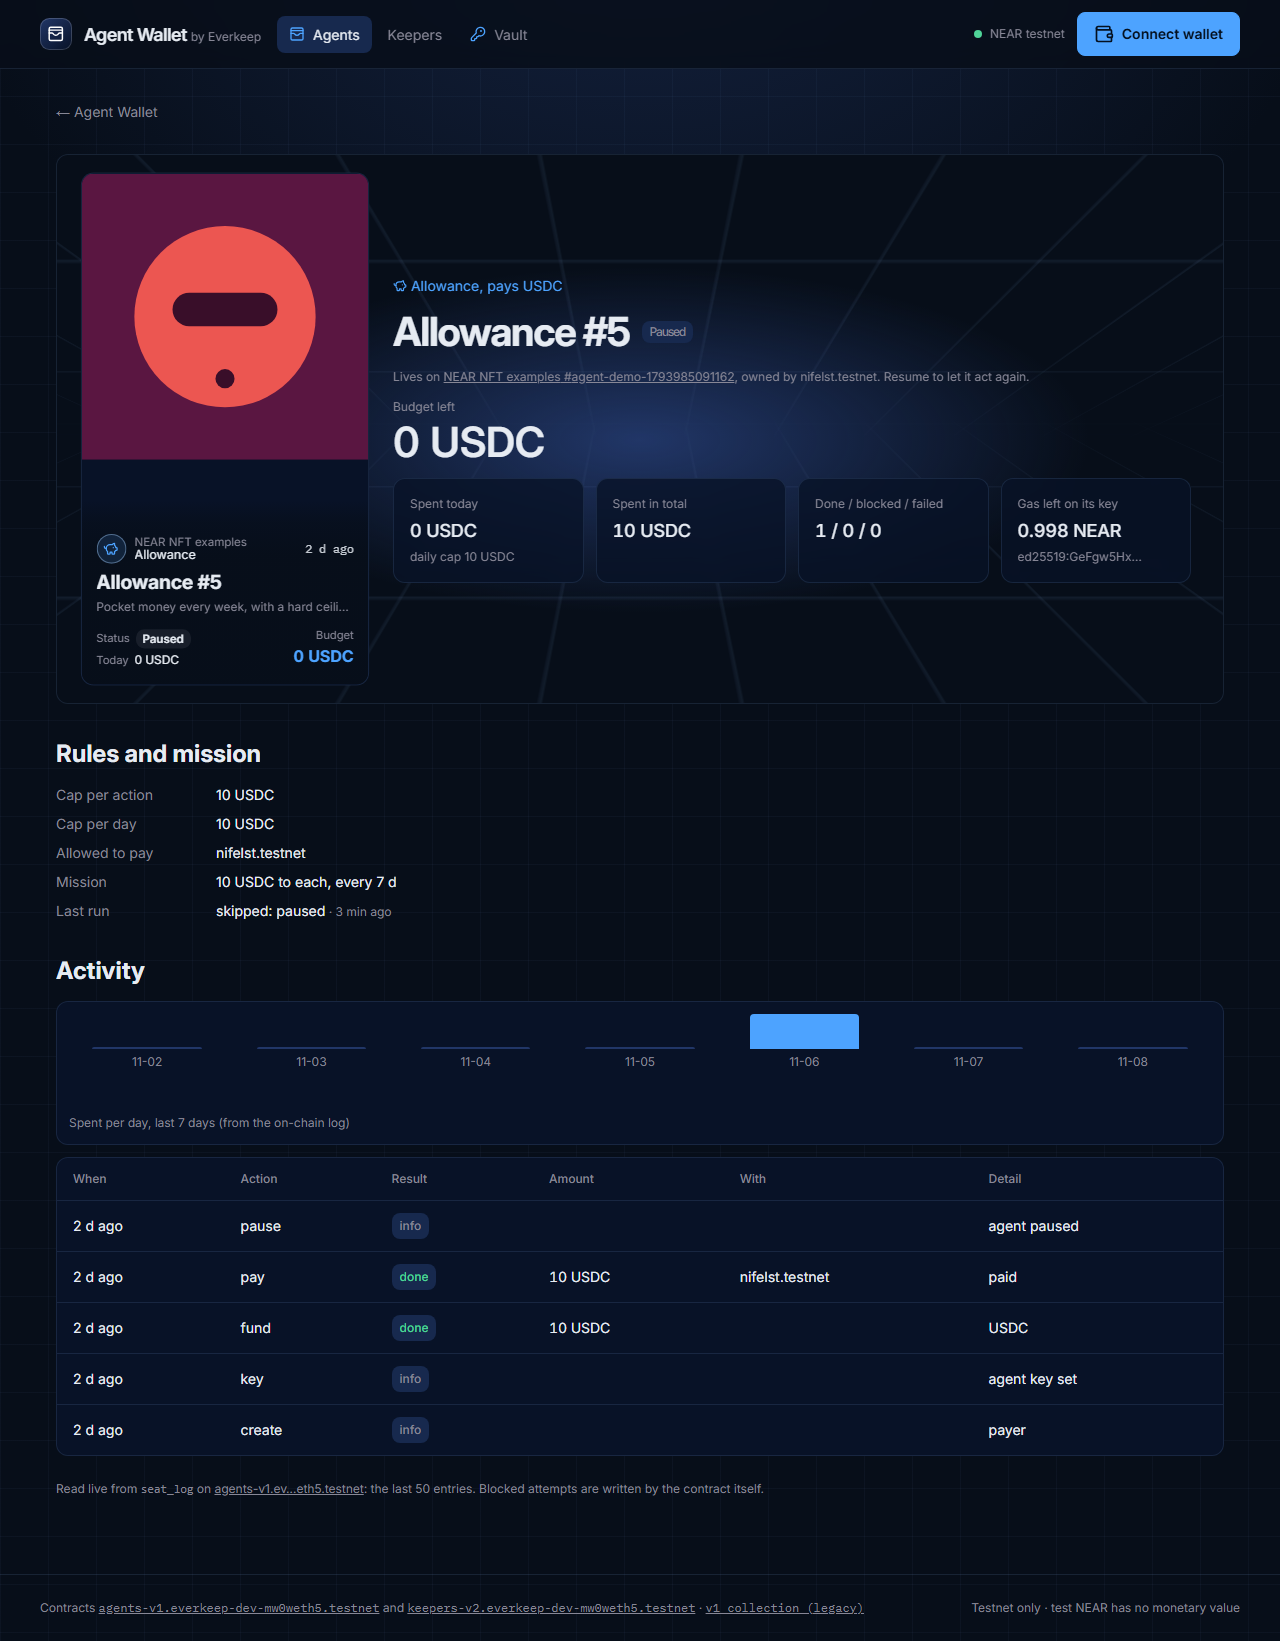
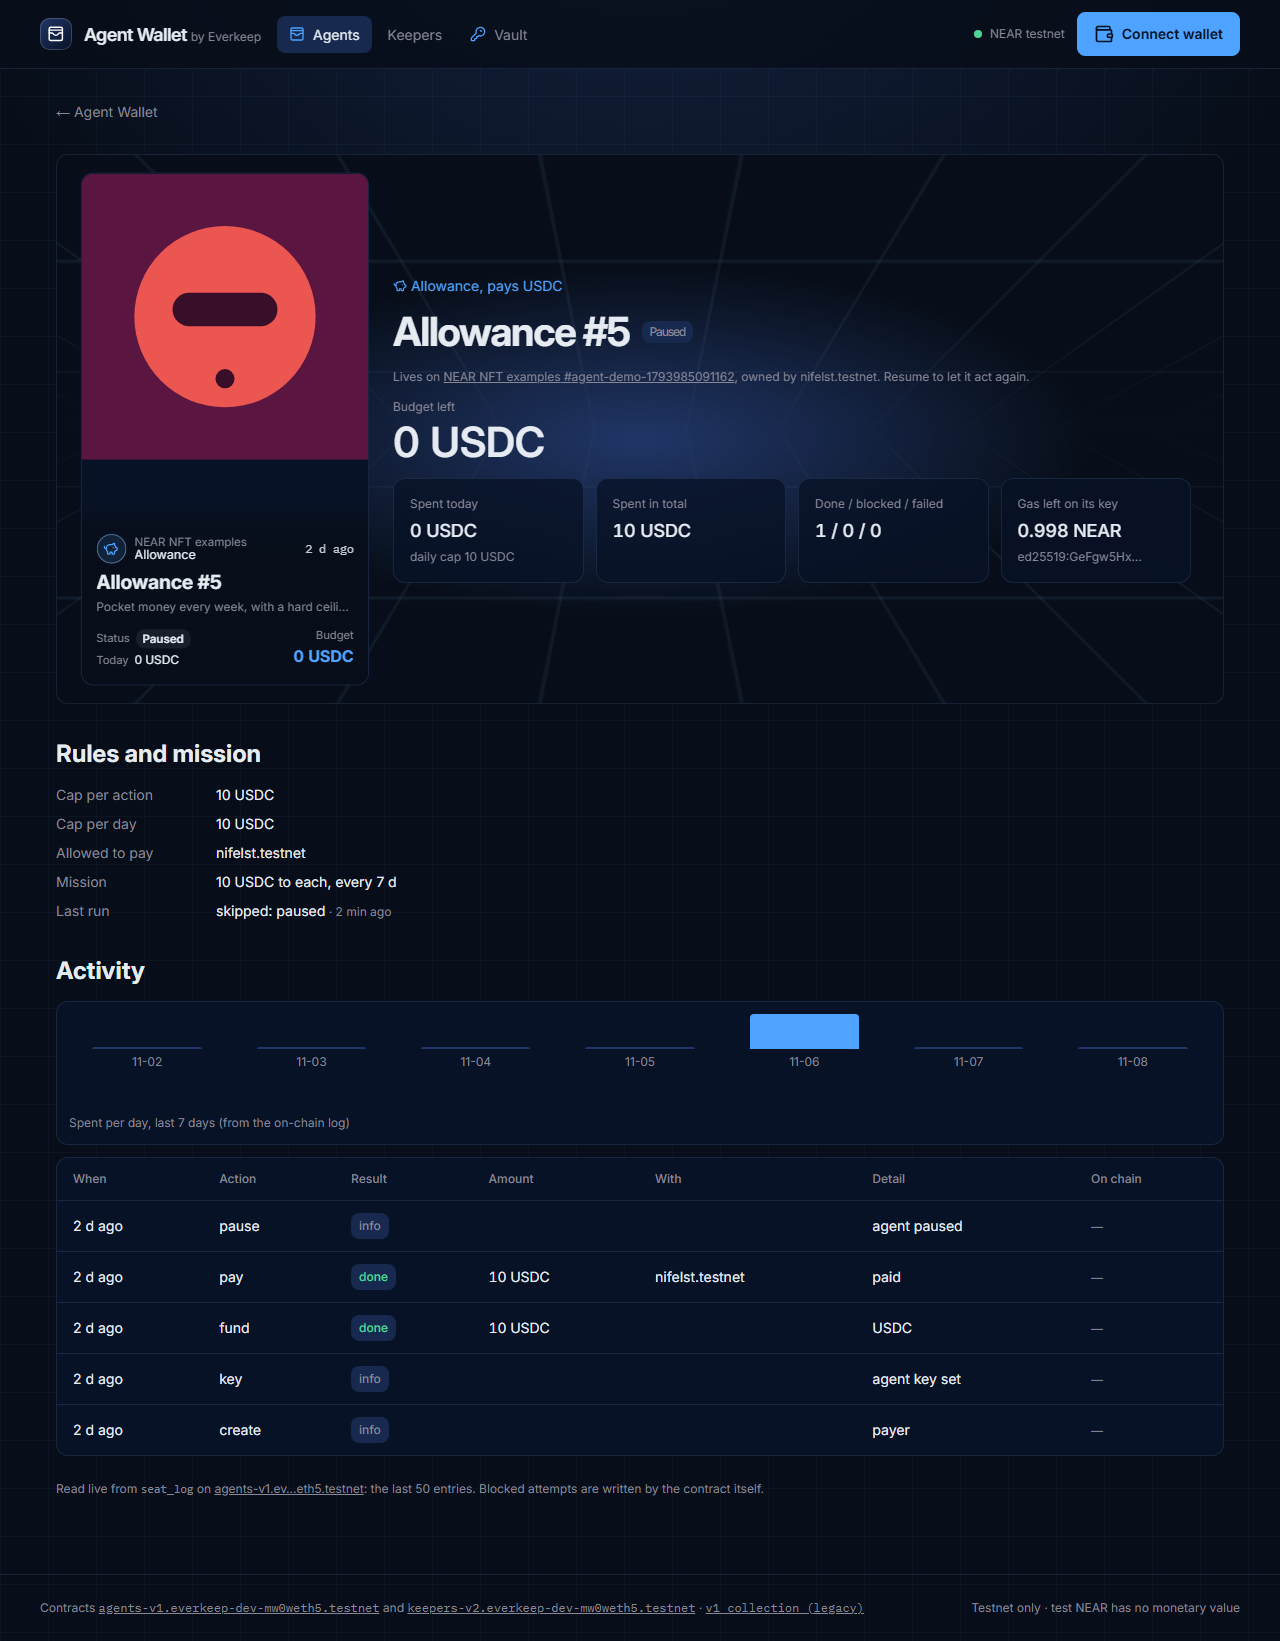
feat(agents): every activity line links to its transaction on the explorer
The contract logs actions, not their hash, so each log entry is matched to
the owner's transaction (NearBlocks v3, public, CORS open): same method
family, latest transaction at or before the entry, within a minute; USDC
top-ups are matched on the USDC contract (ft_transfer_call). The agent
page gets an "On chain" column and the wallet feed a "tx" link. Checked:
agent #10's 5 entries and 20 of 20 feed lines link to the right
transactions (e.g. the refused 5 USDC pay -> HjpKND..., the paid 1 USDC ->
2VJc2T...). Best effort: if the explorer is down, the page still works.

diff --git a/src/keepers/AgentsPage.tsx b/src/keepers/AgentsPage.tsx
@@ -545,6 +545,7 @@ export function AgentsPage({ wallet, navigate }: { wallet: Wallet; navigate: Nav
   const [seats, setSeats] = useState<Seat[] | null>(null);
   const [owners, setOwners] = useState<Record<string, string | null>>({});
   const [feed, setFeed] = useState<(FeedItem & { count: number; firstAt: string })[]>([]);
+  const [feedTx, setFeedTx] = useState<Record<string, string>>({});
   const [refund, setRefund] = useState({ near: "0", usdc: "0" });
   const [error, setError] = useState("");
   const runner = useRunner(account);
@@ -573,7 +574,21 @@ export function AgentsPage({ wallet, navigate }: { wallet: Wallet; navigate: Nav
       );
       setOwners(o);
       setLastAt(latest);
-      setFeed(collapse(logs.sort((a, b) => (BigInt(b.at) > BigInt(a.at) ? 1 : -1))).slice(0, 20));
+      const shown = collapse(logs.sort((a, b) => (BigInt(b.at) > BigInt(a.at) ? 1 : -1))).slice(0, 20);
+      setFeed(shown);
+      // Explorer links: match each entry to the owner's transaction (best effort, never blocks the page).
+      if (shown.length)
+        void ag
+          .ownerTxs(account, BigInt(shown.at(-1)!.at) - 60_000_000_000n)
+          .then((txs) => {
+            const m: Record<string, string> = {};
+            for (const e of shown) {
+              const h = ag.txForEntry(e, txs);
+              if (h) m[`${e.seat.seat_id}-${e.seq}`] = h;
+            }
+            setFeedTx(m);
+          })
+          .catch(() => {});
       setError("");
     } catch (e) {
       setError((e as Error).message);
@@ -879,6 +894,11 @@ export function AgentsPage({ wallet, navigate }: { wallet: Wallet; navigate: Nav
                       )}
                       {e.status === "refused" && <span className="ag-blocked"> blocked: {e.detail}</span>}
                       {e.count > 1 && <span className="ag-times">×{e.count}</span>}
+                      {feedTx[`${e.seat.seat_id}-${e.seq}`] && (
+                        <a className="ag-tx" href={ag.txLink(feedTx[`${e.seat.seat_id}-${e.seq}`])} target="_blank" rel="noreferrer" aria-label="View the transaction">
+                          tx ↗
+                        </a>
+                      )}
                       <small className="ag-muted"> {ago(e.at)}</small>
                     </div>
                   </li>
@@ -1578,6 +1598,7 @@ export function AgentPage({ id, wallet, navigate }: { id: string; wallet: Wallet
   const account = wallet.account;
   const [seat, setSeat] = useState<Seat | null | undefined>();
   const [log, setLog] = useState<LogEntry[]>([]);
+  const [logTx, setLogTx] = useState<Record<string, string>>({});
   const [nftOwner, setNftOwner] = useState<string | null>(null);
   const [gasLeft, setGasLeft] = useState<string | null | undefined>();
   const [fund, setFund] = useState("");
@@ -1589,7 +1610,20 @@ export function AgentPage({ id, wallet, navigate }: { id: string; wallet: Wallet
     const s = await ag.getSeat(id);
     setSeat(s);
     if (!s) return;
-    setLog(await ag.seatLog(id));
+    const entries = await ag.seatLog(id);
+    setLog(entries);
+    if (entries.length)
+      void ag
+        .ownerTxs(s.owner, BigInt(entries.at(-1)!.at) - 60_000_000_000n)
+        .then((txs) => {
+          const m: Record<string, string> = {};
+          for (const e of entries) {
+            const h = ag.txForEntry(e, txs);
+            if (h) m[e.seq] = h;
+          }
+          setLogTx(m);
+        })
+        .catch(() => {});
     setNftOwner(await ag.nftOwner(s.nft_contract, s.token_id).catch(() => null));
     setGasLeft(s.agent_key ? await ag.keyAllowance(s.owner, s.agent_key) : undefined);
     void runner.reload();
@@ -1898,6 +1932,7 @@ export function AgentPage({ id, wallet, navigate }: { id: string; wallet: Wallet
                 <th>Amount</th>
                 <th>With</th>
                 <th>Detail</th>
+                <th>On chain</th>
               </tr>
             </thead>
             <tbody>
@@ -1919,6 +1954,15 @@ export function AgentPage({ id, wallet, navigate }: { id: string; wallet: Wallet
                   <td className="kp-num">{e.amount !== "0" ? ag.formatAsset(e.amount, seat.asset) : ""}</td>
                   <td>{e.counterparty ? shortAccount(e.counterparty) : ""}</td>
                   <td>{e.detail}</td>
+                  <td>
+                    {logTx[e.seq] ? (
+                      <a className="ag-tx" href={ag.txLink(logTx[e.seq])} target="_blank" rel="noreferrer">
+                        {logTx[e.seq].slice(0, 6)}… ↗
+                      </a>
+                    ) : (
+                      <span className="ag-muted">—</span>
+                    )}
+                  </td>
                 </tr>
               ))}
             </tbody>

diff --git a/src/keepers/agents.ts b/src/keepers/agents.ts
@@ -542,3 +542,81 @@ export function downloadJson(filename: string, data: unknown) {
 
 /** What to run so an MCP agent drives this seat. */
 export const mcpCommand = (file: string) => `npx tsx scripts/agent-mcp.ts --key ${file}`;
+
+// ---------------------------------------------------------------------------
+// Explorer links for the on-chain log: the contract logs actions, not their
+// transaction hash, so each entry is matched to the owner's transaction to the
+// agents contract (NearBlocks v3, public, CORS open): same method family,
+// latest transaction at or before the entry's time, within a minute.
+// ---------------------------------------------------------------------------
+
+type IndexedTx = { hash: string; ts: bigint; method: string; ok: boolean };
+const NEARBLOCKS = "https://api-testnet.nearblocks.io/v3";
+const txCache = new Map<string, { at: number; txs: IndexedTx[] }>();
+
+const METHODS: Record<string, string[]> = {
+  pay: ["agent_pay"],
+  buy: ["agent_buy"],
+  deliver: ["agent_buy"],
+  fund: ["fund", "ft_transfer_call"],
+  withdraw: ["withdraw"],
+  create: ["create_seat"],
+  key: ["set_agent_key"],
+  pause: ["pause"],
+  resume: ["resume"],
+  policy: ["set_policy"],
+  claim: ["claim_seat"],
+  reset: ["agent_pay", "agent_buy", "claim_seat"],
+};
+
+/** The owner's recent transactions to the agents contract, newest first (cached 20 s). */
+export async function ownerTxs(owner: string, oldest: bigint): Promise<IndexedTx[]> {
+  const hit = txCache.get(owner);
+  if (hit && Date.now() - hit.at < 20_000 && (hit.txs.at(-1)?.ts ?? 0n) <= oldest) return hit.txs;
+  const txs: IndexedTx[] = [];
+  let next: string | undefined;
+  for (let page = 0; page < 5; page++) {
+    const url = `${NEARBLOCKS}/accounts/${AGENTS}/txns?limit=100&signer=${encodeURIComponent(owner)}${next ? `&next=${encodeURIComponent(next)}` : ""}`;
+    const r = await fetch(url, { signal: AbortSignal.timeout(15_000) });
+    if (!r.ok) break;
+    const d = (await r.json()) as {
+      data?: { transaction_hash: string; block_timestamp: string; actions?: { method?: string }[]; outcomes?: { status?: boolean } }[];
+      meta?: { next_page?: string };
+    };
+    for (const t of d.data ?? [])
+      txs.push({
+        hash: t.transaction_hash,
+        ts: BigInt(t.block_timestamp),
+        method: t.actions?.[0]?.method ?? "",
+        ok: t.outcomes?.status !== false,
+      });
+    next = d.meta?.next_page;
+    if (!next || (txs.at(-1)?.ts ?? 0n) <= oldest) break;
+  }
+  // USDC top-ups are sent to the USDC contract (ft_transfer_call), not to the agents contract.
+  try {
+    const r = await fetch(`${NEARBLOCKS}/accounts/${USDC}/txns?limit=50&signer=${encodeURIComponent(owner)}`, {
+      signal: AbortSignal.timeout(15_000),
+    });
+    if (r.ok) {
+      const d = (await r.json()) as { data?: { transaction_hash: string; block_timestamp: string; actions?: { method?: string }[] }[] };
+      for (const t of d.data ?? [])
+        if (t.actions?.[0]?.method === "ft_transfer_call")
+          txs.push({ hash: t.transaction_hash, ts: BigInt(t.block_timestamp), method: "ft_transfer_call", ok: true });
+      txs.sort((a, b) => (b.ts > a.ts ? 1 : b.ts < a.ts ? -1 : 0));
+    }
+  } catch {
+    // No link for top-ups if the explorer is unreachable; everything else still works.
+  }
+  txCache.set(owner, { at: Date.now(), txs });
+  return txs;
+}
+
+/** Transaction hash for one log entry, or null when it cannot be matched. */
+export function txForEntry(e: { action: string; at: string }, txs: IndexedTx[]) {
+  const methods = METHODS[e.action];
+  if (!methods) return null;
+  const at = BigInt(e.at);
+  const best = txs.find((t) => t.ts <= at && at - t.ts <= 60_000_000_000n && methods.includes(t.method));
+  return best?.hash ?? null;
+}

diff --git a/src/keepers/agents-stage.css b/src/keepers/agents-stage.css
@@ -512,3 +512,11 @@
   line-height: 1.6;
   white-space: pre;
 }
+
+/* Link from a log line to its transaction on the explorer */
+.ag-tx {
+  margin-left: var(--space-2);
+  color: var(--nx-accent) !important;
+  font-size: var(--type-xs);
+  white-space: nowrap;
+}
